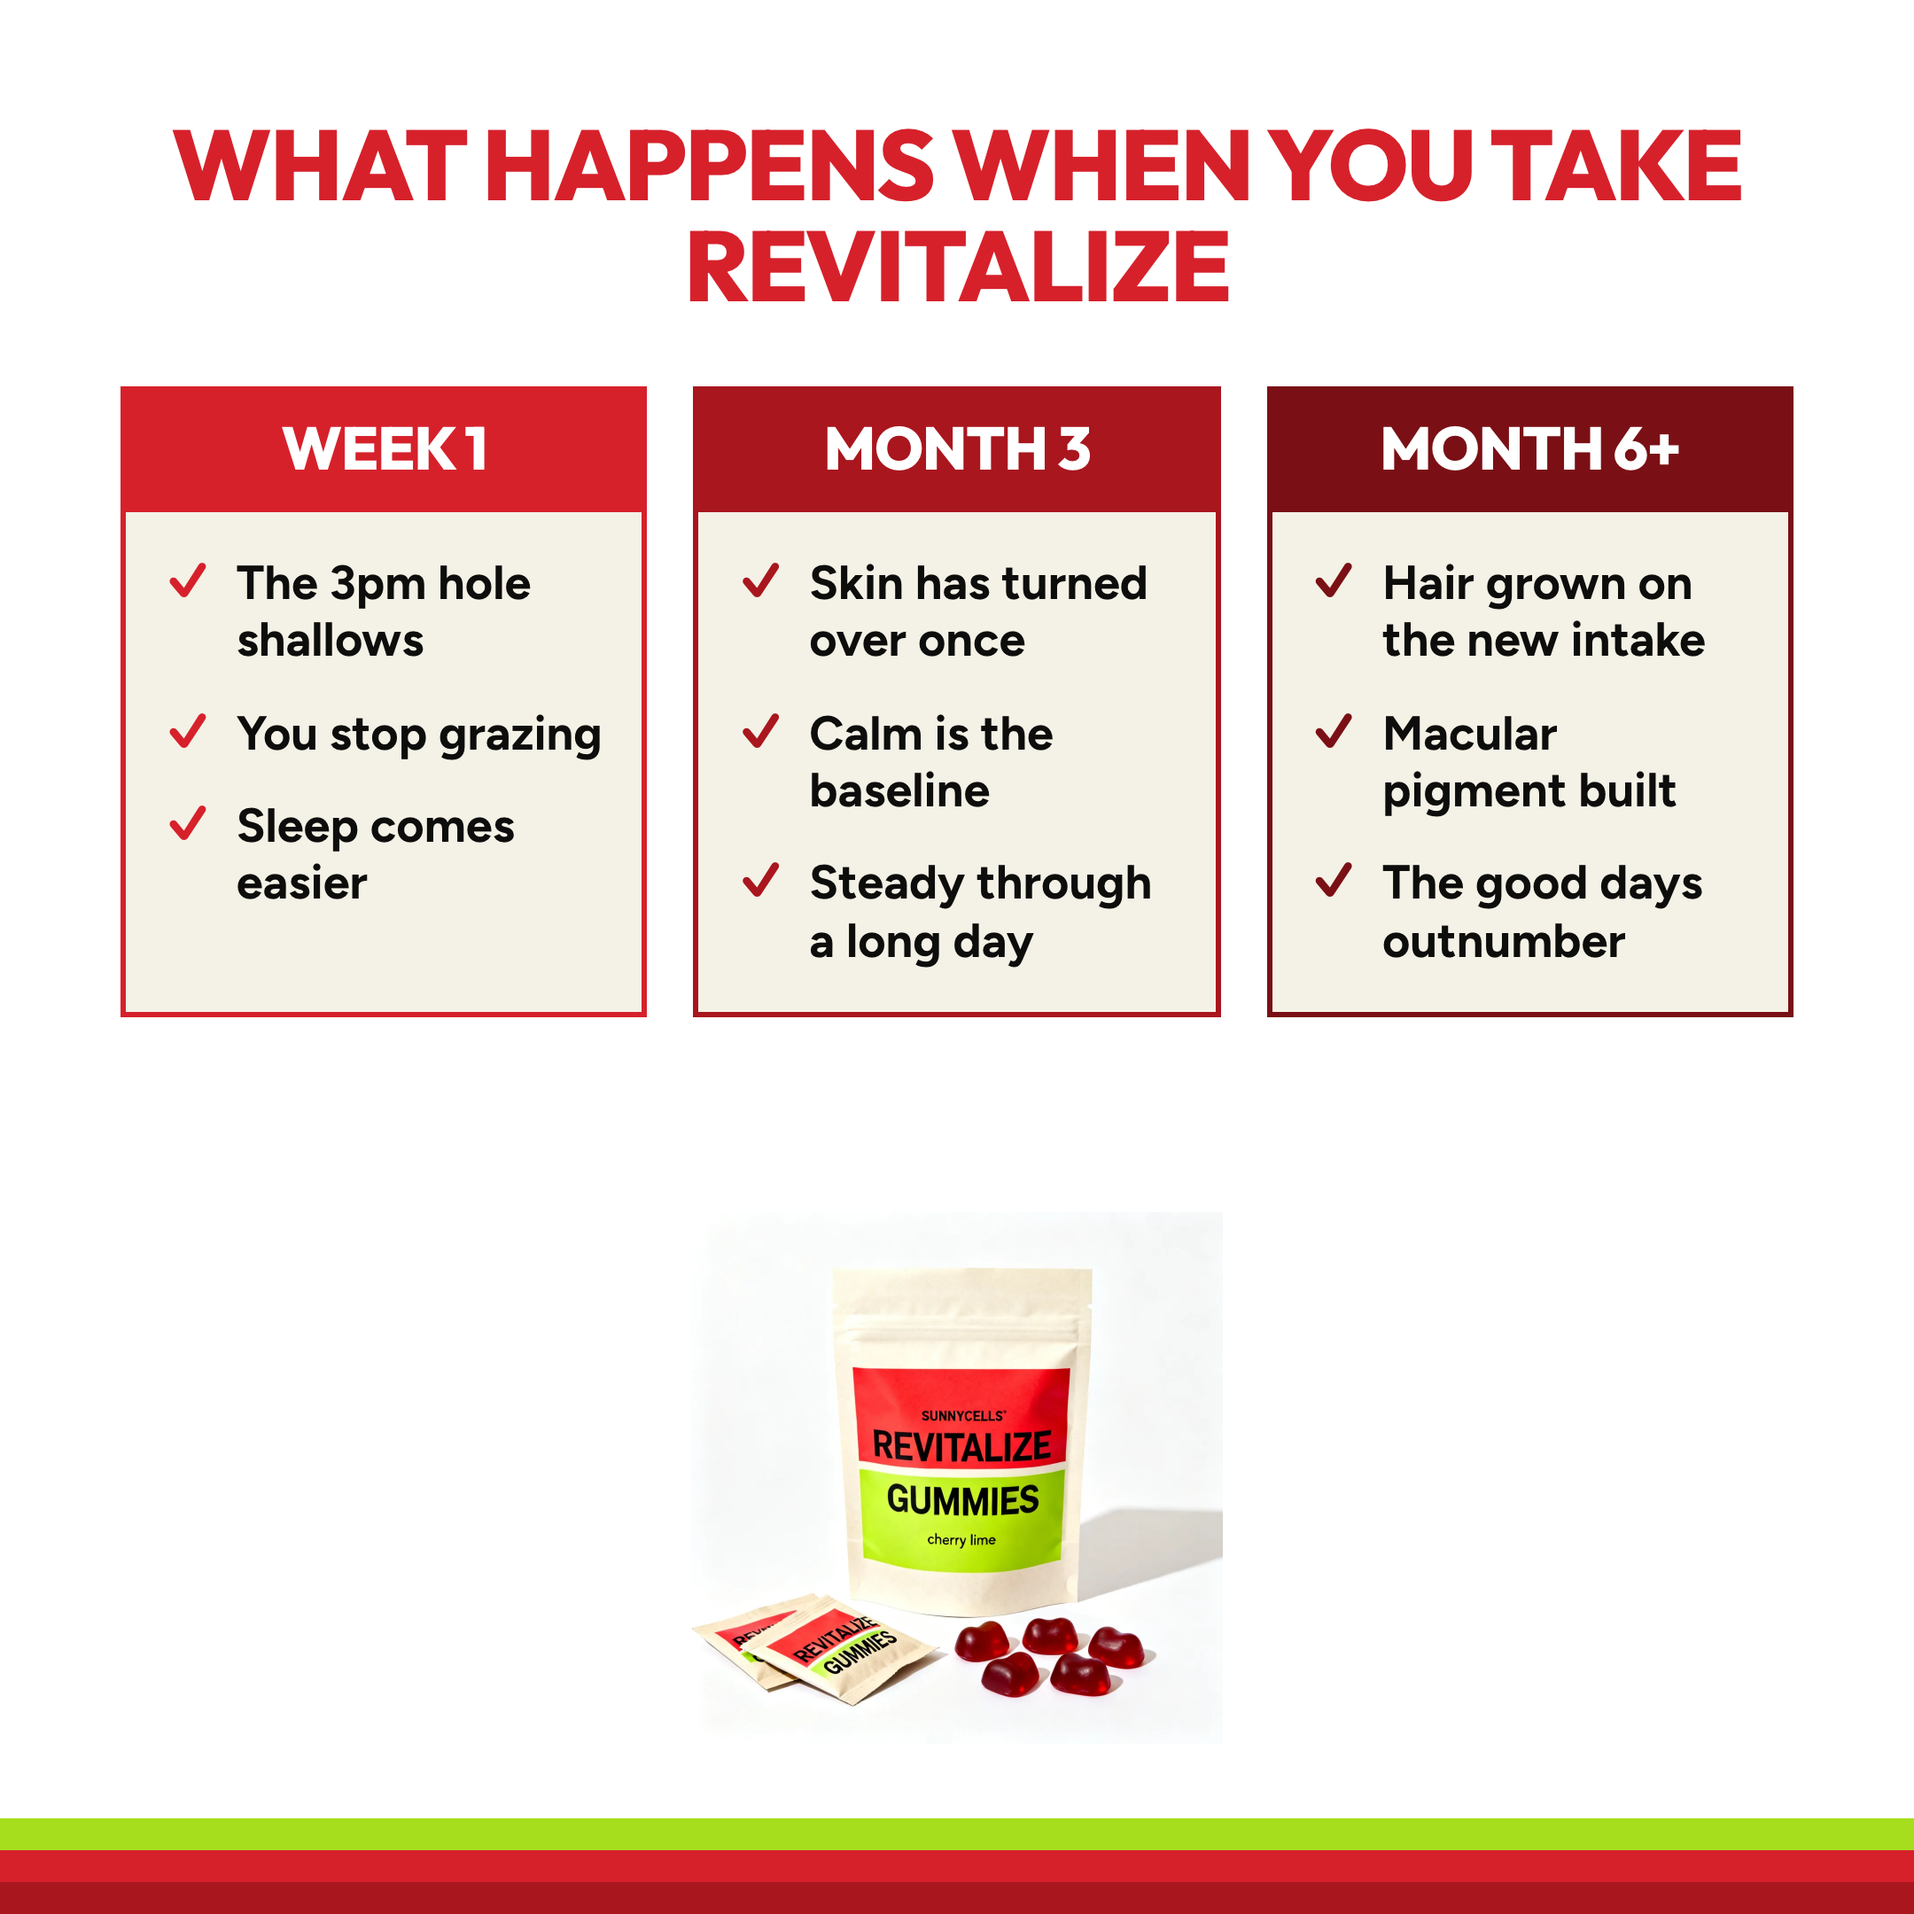
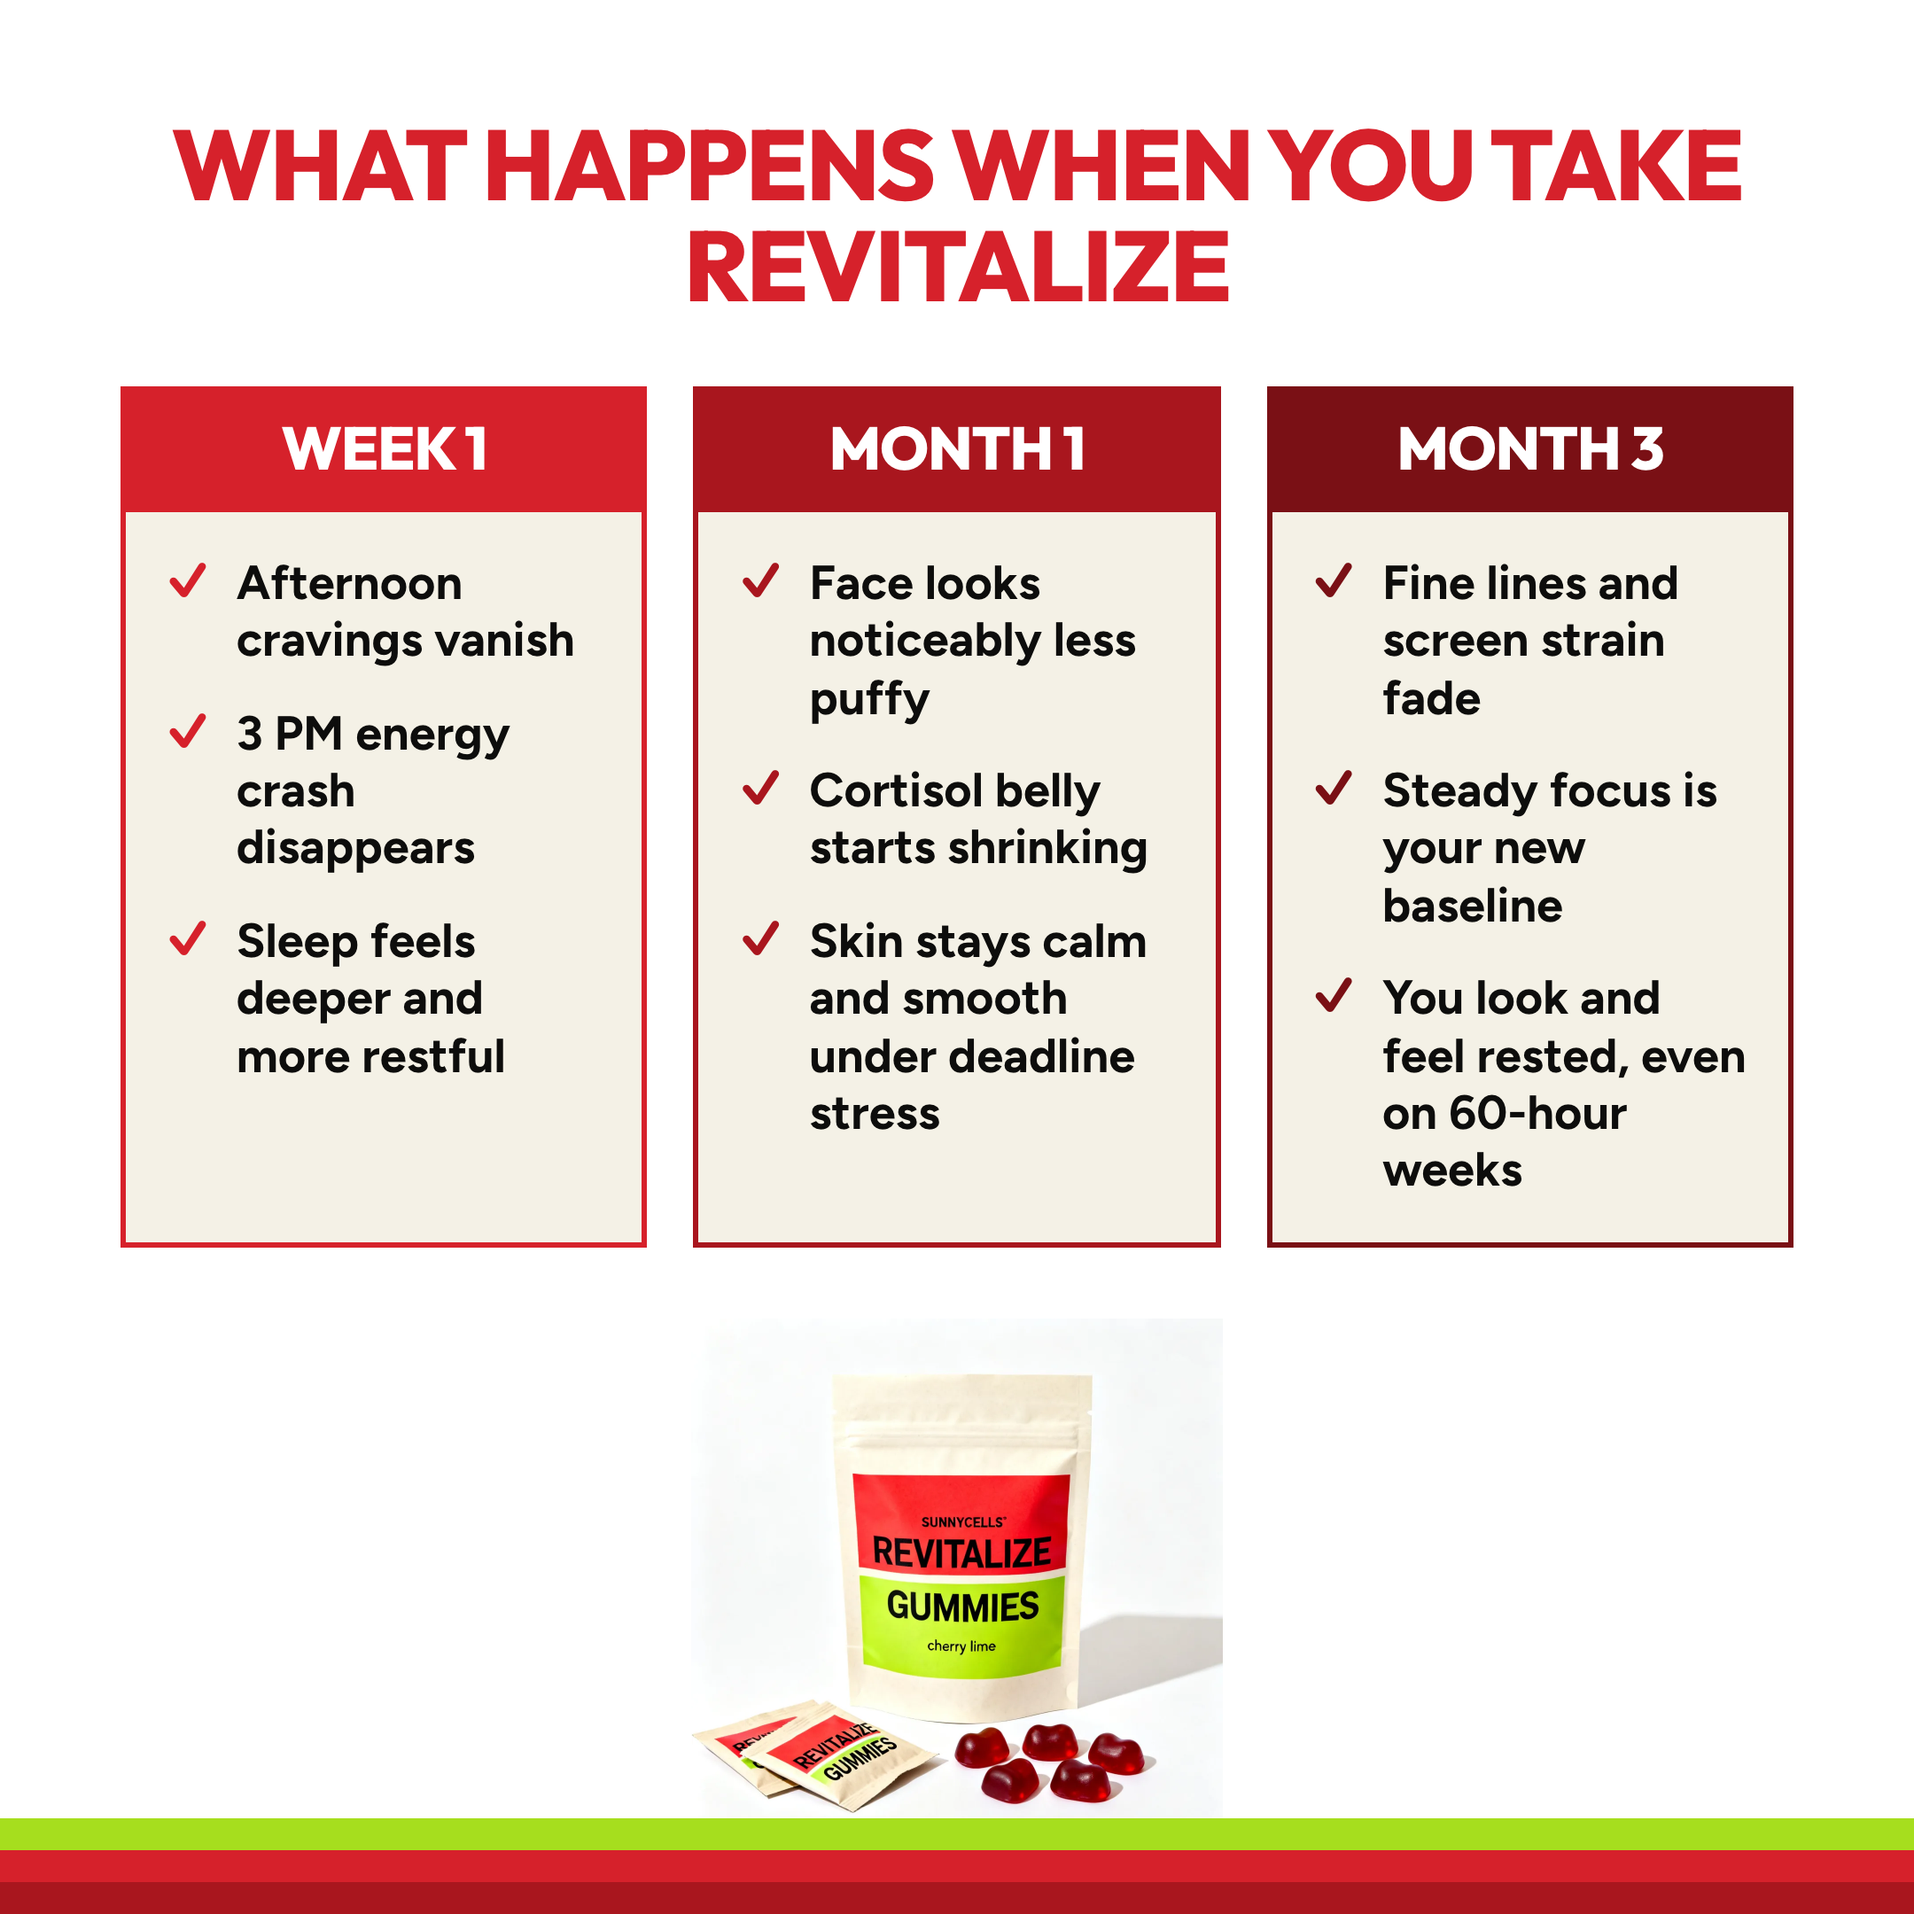
Rewrite the timeline slide
Week 1, Month 1, Month 3 with the nine lines as supplied. Re-rendered, and
the gallery alt now reads out the stages that are on the slide.

diff --git a/lib/products/revitalize.ts b/lib/products/revitalize.ts
@@ -111,7 +111,7 @@ export const GALLERY = [
   { src: "/product/revitalize/carousel/01-product.webp", alt: "A pouch of Revitalize Gummies with two sachets and five cherry lime gummies on white" },
   { src: "/product/revitalize/carousel/02-outcome.webp", alt: "What a day with Revitalize looks like: no 3:30 PM pantry raids, no afternoon brain fog, no morning puffy face, no dark circles under your eyes, no tight neck or jaw tension, no screen-strained eyes by 5 PM, no premature fine lines, no second cup of afternoon coffee, no feeling too drained to enjoy your evenings" },
   { src: "/product/revitalize/carousel/03-inside.webp", alt: "The supplement facts panel with each ingredient and its job: vitamin C to build collagen, 10 g gelatin for protein, magnesium glycinate to calm tension, B5 for the stress response, D3 for the indoor day, B1 and B3 for energy and skin, glucomannan to slow the stomach, lutein and zeaxanthin for the screen, allulose for sweetness with no added sugar" },
-  { src: "/product/revitalize/carousel/04-timeline.webp", alt: "What happens when you take Revitalize: week one the 3pm hole shallows, month three skin has turned over once, month six and beyond hair grown on the new intake" },
+  { src: "/product/revitalize/carousel/04-timeline.webp", alt: "What happens when you take Revitalize. Week one: afternoon cravings vanish, the 3 PM energy crash disappears, sleep feels deeper. Month one: face looks less puffy, cortisol belly starts shrinking, skin stays calm under deadline stress. Month three: fine lines and screen strain fade, steady focus is your new baseline, you look and feel rested even on 60-hour weeks" },
   { src: "/product/revitalize/carousel/05-compare.webp", alt: "Revitalize compared with coffee and a multivitamin across energy without a crash, 10 g of protein, feeding what cortisol spends, staying full to dinner, being something you look forward to, and every dose printed on the front" },
   { src: "/product/revitalize/carousel/06-faq.webp", alt: "Frequently asked questions: what Revitalize is, how it works, whether there is caffeine in it, and how long until you notice" },
   { src: "/product/revitalize/carousel/07-honesty.webp", alt: "We print the weak claims too: every claim on the product page carries an evidence grade and six carry a caveat we wrote ourselves" },

diff --git a/lib/products/revitalize-carousel.ts b/lib/products/revitalize-carousel.ts
@@ -72,9 +72,21 @@ export const SLIDES = {
     file: "04-timeline",
     title: "What happens when you take Revitalize",
     cols: [
-      { when: "Week 1", tone: "a", items: ["The 3pm hole shallows", "You stop grazing", "Sleep comes easier"] },
-      { when: "Month 3", tone: "b", items: ["Skin has turned over once", "Calm is the baseline", "Steady through a long day"] },
-      { when: "Month 6+", tone: "c", items: ["Hair grown on the new intake", "Macular pigment built", "The good days outnumber"] },
+      { when: "Week 1", tone: "a", items: [
+        "Afternoon cravings vanish",
+        "3 PM energy crash disappears",
+        "Sleep feels deeper and more restful",
+      ] },
+      { when: "Month 1", tone: "b", items: [
+        "Face looks noticeably less puffy",
+        "Cortisol belly starts shrinking",
+        "Skin stays calm and smooth under deadline stress",
+      ] },
+      { when: "Month 3", tone: "c", items: [
+        "Fine lines and screen strain fade",
+        "Steady focus is your new baseline",
+        "You look and feel rested, even on 60-hour weeks",
+      ] },
     ],
   },
 
